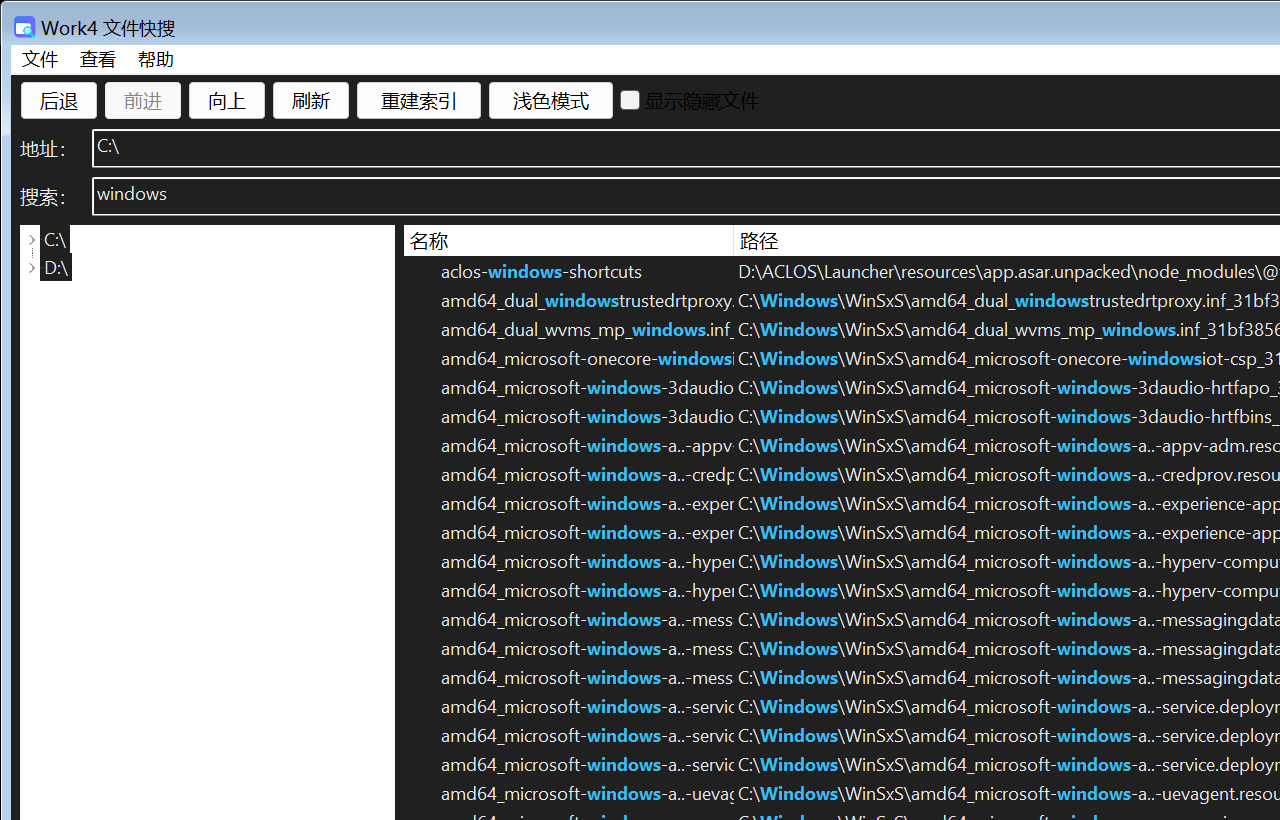
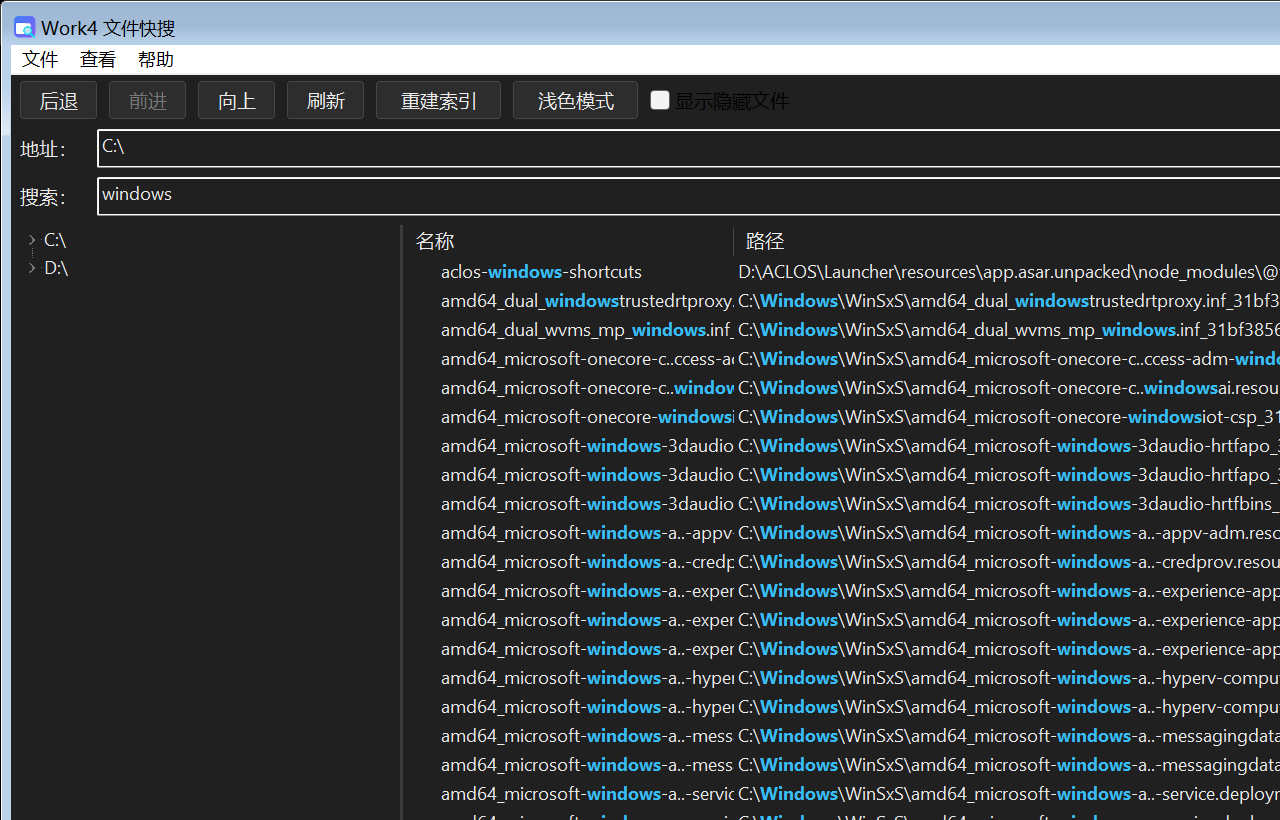
fix(ui): 修复深色模式下列头无法自绘而显示为亮色
根因：Header 控件的直接父窗口是 ListView，ListView 转发其通知给主窗口时不会把主窗口返回的 CDRF 绘制指令回传给 Header，列头自绘从未生效，深色模式下列头保持默认亮色（240,240,240）。

修复：
- 子类化 ListView，在其窗口过程内直接处理 Header 的 NM_CUSTOMDRAW，让 CDRF 返回值直达 Header（main.cpp ListProc）
- 列间分隔线改在 ITEMPREPAINT 内绘制（CDRF_SKIPDEFAULT 会抑制 ITEMPOSTPAINT）
- 子类化 Header 覆盖经典 3D 顶边框（深色模式下亮白+灰线条刺眼）
- SetListViewMode 增删列后刷新 Header 句柄并重挂子类；重复挂接时保留原始窗口过程，避免 CallWindowProcW 无限递归（此前搜索切换模式导致 0xC00000FD 栈溢出）

验证：smoke-test / verify-dark-highlight / resize-test 全部通过；真实屏幕像素采样确认深色、浅色、搜索模式下列头背景/文字/分隔线颜色正确。

diff --git a/src/main.cpp b/src/main.cpp
@@ -6,6 +6,7 @@
 #include <windowsx.h>
 #include <commctrl.h>
 #include <shellapi.h>
+#include <uxtheme.h>
 
 #include <algorithm>
 #include <cwchar>
@@ -553,6 +554,101 @@ LRESULT CALLBACK SearchEditProc(HWND h, UINT m, WPARAM w, LPARAM l) {
     return CallWindowProcW(g_app.origSearchProc, h, m, w, l);
 }
 
+// ListView 子类：拦截其子控件 Header 的 NM_CUSTOMDRAW。
+// Header 的直接父窗口是 ListView——它把通知转发给主窗口，但不会把主窗口的
+// CDRF 返回值回传给 Header，导致列头自绘失效（深色模式下列头仍为亮色）。
+// 因此在 ListView 窗口过程内直接处理并返回 CDRF，让绘制指令直达 Header。
+LRESULT CALLBACK ListProc(HWND h, UINT m, WPARAM w, LPARAM l) {
+    if (m == WM_NOTIFY) {
+        NMHDR* nm = (NMHDR*)l;
+        if (nm->hwndFrom == g_app.hHeader && nm->code == NM_CUSTOMDRAW) {
+            // 列头（名称/大小/类型/修改日期）完全自绘，适配深浅色模式
+            // （Header 的 NMCUSTOMDRAW 不提供 clrText/clrTextBk，必须自绘）
+            NMCUSTOMDRAW* cd = (NMCUSTOMDRAW*)l;
+            if (cd->dwDrawStage == CDDS_PREPAINT) {
+                return CDRF_NOTIFYITEMDRAW;
+            }
+            if (cd->dwDrawStage == CDDS_ITEMPREPAINT) {
+                HDC hdc = cd->hdc;
+                RECT rc = cd->rc;
+                const bool dark = g_app.darkMode;
+                COLORREF bg = dark ? RGB(32, 32, 32)
+                                   : (COLORREF)GetSysColor(COLOR_WINDOW);
+                if (cd->uItemState & CDIS_SELECTED) {
+                    bg = dark ? RGB(48, 48, 48) : RGB(232, 232, 232);
+                }
+                HBRUSH br = CreateSolidBrush(bg);
+                FillRect(hdc, &rc, br);
+                DeleteObject(br);
+
+                wchar_t buf[128] = {};
+                HDITEMW hdi{};
+                hdi.mask = HDI_TEXT;
+                hdi.pszText = buf;
+                hdi.cchTextMax = 127;
+                if (SendMessageW(nm->hwndFrom, HDM_GETITEMW, (WPARAM)(int)cd->dwItemSpec,
+                                 (LPARAM)&hdi)) {
+                    SetBkMode(hdc, TRANSPARENT);
+                    SetTextColor(hdc, dark ? RGB(235, 235, 235)
+                                           : (COLORREF)GetSysColor(COLOR_WINDOWTEXT));
+                    HGDIOBJ oldFont = nullptr;
+                    if (g_app.hFont) {
+                        oldFont = (HGDIOBJ)SelectObject(hdc, g_app.hFont);
+                    }
+                    RECT tr = rc;
+                    tr.left += MulDiv(8, g_app.dpi, 96);
+                    tr.right -= MulDiv(4, g_app.dpi, 96);
+                    DrawTextW(hdc, buf, -1, &tr, DT_LEFT | DT_VCENTER | DT_SINGLELINE);
+                    if (oldFont) SelectObject(hdc, oldFont);
+                }
+                // 列间分隔线：画在本项右缘（相邻项背景从其 rc.left 起，不会覆盖此线）。
+                // 不用 ITEMPOSTPAINT——CDRF_SKIPDEFAULT 会抑制后续通知，实测 POSTPAINT 不触发。
+                COLORREF sep = dark ? RGB(70, 70, 70) : RGB(205, 205, 205);
+                HPEN pen = CreatePen(PS_SOLID, 1, sep);
+                HGDIOBJ oldPen = (HGDIOBJ)SelectObject(hdc, pen);
+                MoveToEx(hdc, rc.right - 1, rc.top, nullptr);
+                LineTo(hdc, rc.right - 1, rc.bottom);
+                SelectObject(hdc, oldPen);
+                DeleteObject(pen);
+                return CDRF_SKIPDEFAULT;
+            }
+        }
+    }
+    return CallWindowProcW(g_app.origListProc, h, m, w, l);
+}
+
+// Header 子类：经典样式的 3D 顶边框（亮白 + 灰两条线）在深色模式下刺眼，用背景色覆盖。
+LRESULT CALLBACK HeaderProc(HWND h, UINT m, WPARAM w, LPARAM l) {
+    if (m == WM_PAINT) {
+        LRESULT r = CallWindowProcW(g_app.origHeaderProc, h, m, w, l);
+        HDC hdc = GetDC(h);
+        RECT rc;
+        GetClientRect(h, &rc);
+        COLORREF bg = g_app.darkMode ? RGB(32, 32, 32)
+                                     : (COLORREF)GetSysColor(COLOR_WINDOW);
+        HBRUSH br = CreateSolidBrush(bg);
+        RECT top{rc.left, rc.top, rc.right, rc.top + 2};
+        FillRect(hdc, &top, br);
+        DeleteObject(br);
+        ReleaseDC(h, hdc);
+        return r;
+    }
+    return CallWindowProcW(g_app.origHeaderProc, h, m, w, l);
+}
+
+}  // namespace
+
+void ui::ReattachHeaderSubclass() {
+    if (!g_app.hHeader) return;
+    SetWindowTheme(g_app.hHeader, L"", L"");
+    // 同一窗口重复挂接时 SetWindowLongPtrW 会返回 HeaderProc 自身，
+    // 此时不能覆写 origHeaderProc（否则 CallWindowProcW 无限递归导致栈溢出）
+    WNDPROC prev = (WNDPROC)SetWindowLongPtrW(g_app.hHeader, GWLP_WNDPROC, (LONG_PTR)HeaderProc);
+    if (prev != HeaderProc) {
+        g_app.origHeaderProc = prev;
+    }
+}
+
 LRESULT CALLBACK WndProc(HWND hwnd, UINT msg, WPARAM wParam, LPARAM lParam) {
     switch (msg) {
         case WM_CREATE: {
@@ -565,6 +661,9 @@ LRESULT CALLBACK WndProc(HWND hwnd, UINT msg, WPARAM wParam, LPARAM lParam) {
             g_app.hBrushSplit = CreateSolidBrush(RGB(205, 205, 205));
             BuildMenu(hwnd);
             ui::CreateControls(hwnd);
+            // 列头自绘需在 ListView 窗口过程内处理（见 ListProc 注释）
+            g_app.origListProc =
+                (WNDPROC)SetWindowLongPtrW(g_app.hList, GWLP_WNDPROC, (LONG_PTR)ListProc);
             // CPU 线程数在运行期间不会变化，只初始化计算一次
             g_app.statusThreadText =
                 L"CPU线程数 " + std::to_wstring(std::thread::hardware_concurrency());
@@ -991,70 +1090,6 @@ LRESULT CALLBACK WndProc(HWND hwnd, UINT msg, WPARAM wParam, LPARAM lParam) {
                         break;
                     }
                 }
-            } else if (nm->hwndFrom == g_app.hHeader) {
-                switch (nm->code) {
-                    case NM_CUSTOMDRAW: {
-                        // 列头（名称/大小/类型/修改日期）完全自绘，适配深浅色模式
-                        // （Header 的 NMCUSTOMDRAW 不提供 clrText/clrTextBk，必须自绘）
-                        NMCUSTOMDRAW* cd = (NMCUSTOMDRAW*)lParam;
-                        if (cd->dwDrawStage == CDDS_PREPAINT) {
-                            return CDRF_NOTIFYITEMDRAW;
-                        }
-                        if (cd->dwDrawStage == CDDS_ITEMPREPAINT) {
-                            HDC hdc = cd->hdc;
-                            RECT rc = cd->rc;
-                            const bool dark = g_app.darkMode;
-                            COLORREF bg = dark ? RGB(32, 32, 32)
-                                               : (COLORREF)GetSysColor(COLOR_WINDOW);
-                            if (cd->uItemState & CDIS_SELECTED) {
-                                bg = dark ? RGB(48, 48, 48) : RGB(232, 232, 232);
-                            }
-                            HBRUSH br = CreateSolidBrush(bg);
-                            FillRect(hdc, &rc, br);
-                            DeleteObject(br);
-
-                            wchar_t buf[128] = {};
-                            HDITEMW hdi{};
-                            hdi.mask = HDI_TEXT;
-                            hdi.pszText = buf;
-                            hdi.cchTextMax = 127;
-                            if (SendMessageW(nm->hwndFrom, HDM_GETITEMW,
-                                             (WPARAM)(int)cd->dwItemSpec,
-                                             (LPARAM)&hdi)) {
-                                SetBkMode(hdc, TRANSPARENT);
-                                SetTextColor(hdc, dark ? RGB(235, 235, 235)
-                                                       : (COLORREF)GetSysColor(
-                                                             COLOR_WINDOWTEXT));
-                                HGDIOBJ oldFont = nullptr;
-                                if (g_app.hFont) {
-                                    oldFont = (HGDIOBJ)SelectObject(hdc, g_app.hFont);
-                                }
-                                RECT tr = rc;
-                                tr.left += MulDiv(8, g_app.dpi, 96);
-                                tr.right -= MulDiv(4, g_app.dpi, 96);
-                                DrawTextW(hdc, buf, -1, &tr,
-                                          DT_LEFT | DT_VCENTER | DT_SINGLELINE);
-                                if (oldFont) SelectObject(hdc, oldFont);
-                            }
-                            return CDRF_SKIPDEFAULT | CDRF_NOTIFYPOSTPAINT;
-                        }
-                        if (cd->dwDrawStage == CDDS_ITEMPOSTPAINT) {
-                            // 所有列头项绘制完成后补画分隔线，避免被相邻项背景覆盖
-                            HDC hdc = cd->hdc;
-                            RECT rc = cd->rc;
-                            COLORREF sep = g_app.darkMode ? RGB(70, 70, 70)
-                                                          : RGB(205, 205, 205);
-                            HPEN pen = CreatePen(PS_SOLID, 1, sep);
-                            HGDIOBJ oldPen = (HGDIOBJ)SelectObject(hdc, pen);
-                            MoveToEx(hdc, rc.right - 1, rc.top, nullptr);
-                            LineTo(hdc, rc.right - 1, rc.bottom);
-                            SelectObject(hdc, oldPen);
-                            DeleteObject(pen);
-                            return CDRF_DODEFAULT;
-                        }
-                        break;
-                    }
-                }
             }
             break;
         }
@@ -1140,8 +1175,6 @@ LRESULT CALLBACK WndProc(HWND hwnd, UINT msg, WPARAM wParam, LPARAM lParam) {
     }
     return DefWindowProcW(hwnd, msg, wParam, lParam);
 }
-
-}  // namespace
 
 int WINAPI wWinMain(HINSTANCE hInstance, HINSTANCE, PWSTR, int nCmdShow) {
     g_app.hInst = hInstance;

diff --git a/src/ui.cpp b/src/ui.cpp
@@ -307,6 +307,10 @@ void SetListViewMode(HWND hlist, int mode) {
         col.pszText = (LPWSTR)cols[i].title;
         ListView_InsertColumn(hlist, (int)i, &col);
     }
+    // 增删列可能导致 Header 控件被重建：重新获取句柄，并重挂子类/保持经典样式
+    // （列头自绘依赖 g_app.hHeader，见 main.cpp ListProc）
+    g_app.hHeader = ListView_GetHeader(hlist);
+    ReattachHeaderSubclass();
 }
 
 // 根据列表实际宽度调整列宽：浏览模式弹性拉宽"名称"，搜索模式弹性拉宽"路径"

diff --git a/src/ui.h b/src/ui.h
@@ -19,6 +19,7 @@ void Layout(HWND hwnd);
 void ApplyFont(HWND parent);
 void SetDarkMode(bool dark);
 void SetListViewMode(HWND hlist, int mode);
+void ReattachHeaderSubclass();  // 列头子类挂接（Header 可能被 ListView 重建，需重挂）
 void AdjustListColumns(HWND hlist, int listW);
 void RefreshList(HWND hlist, size_t count);
 void SetStatusParts(HWND status, int cx);

diff --git a/src/app.h b/src/app.h
@@ -77,6 +77,8 @@ struct App {
     HBRUSH hBrushSplit = nullptr;
     WNDPROC origAddrProc = nullptr;
     WNDPROC origSearchProc = nullptr;
+    WNDPROC origListProc = nullptr;
+    WNDPROC origHeaderProc = nullptr;
 
     int dpi = 96;
     IndexManager index;
